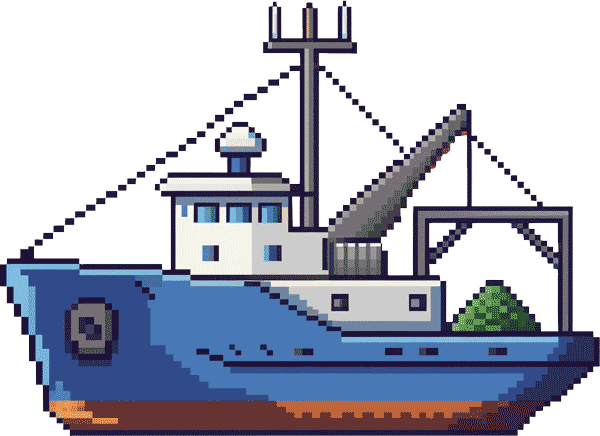
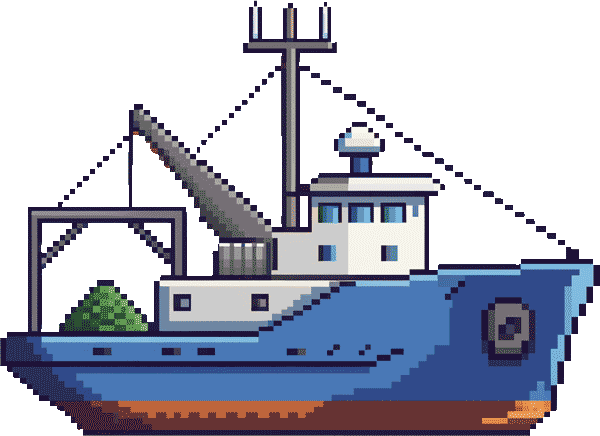
Tråleren ligger dypere jo mer hun har i sekken, og sjøen er blitt hennes egen
Egne bakgrunner (rekefiske-dag/skumring/natt) erstatter Uthavet. De er laget så
venstre og høyre kant er identiske — målt kantskilnad under 1 av 765 — så flisene
kan legges rett etter hverandre uten speiling og uten skjøt. Vasslinja ligger på
41,4 % i alle tre, og bildet skaleres til å fylle høyden, så vasslinja i bildet
lander på scenens vasslinje av seg selv.

To av filene het reketraaler-natt/skumring på disken. De er døpt om til
rekefiske-* så settet henger sammen.

Båten er traaler-reke.png, som eieren tegnet om: baug mot høyre, rødt bunnstoff
nederst og gantry i akterenden. Hun tegnes i to omganger — over vasslinja for
seg, under for seg med dempet alfa — og RADEN som ligger i vasslinja senkes etter
hvor full sekken er: tom flyter hun høyt og viser bunnstoffet, full søkk hun til
rødfargen er borte. Det er den eldste fangstmeldinga som finnes; du leser den på
båten lenge før du ser på baren.

Månen står igjen i regn, men på en fjerdedel av vanlig styrke — så vidt anelig
bak skydekket, slik eieren ba om.

traaler-reke-hal.png ble aldri laget og er ute av VENTA-lista igjen.

diff --git a/fiske.html b/fiske.html
@@ -422,8 +422,13 @@
   /* MERK: ingen position her — .screen gir alt position:absolute;inset:0, og ein
      «position:relative» hadde teke bort inset-a og gjort skjermen null høg. */
   #halCv{position:absolute;inset:0;width:100%;height:100%;display:block}
-  #halTopp{position:absolute;left:0;right:0;top:calc(env(safe-area-inset-top,0px) + 14px);
-    display:flex;flex-direction:column;align-items:center;gap:7px;pointer-events:none;padding:0 10px}
+  #halTopp{position:absolute;left:0;right:0;top:0;padding:calc(env(safe-area-inset-top,0px) + 14px) 10px 16px;
+    display:flex;flex-direction:column;align-items:center;gap:7px;pointer-events:none}
+  /* Kvit tekst mot dagshimmelen forsvinn. Eit mjukt mørkt slør bak toppen gir feste
+     i alle tre døgnvariantane utan å teikne ein synleg boks. */
+  #halTopp::before{content:"";position:absolute;inset:0;pointer-events:none;
+    background:linear-gradient(180deg,rgba(6,18,28,.52),rgba(6,18,28,.28) 62%,rgba(6,18,28,0))}
+  #halTopp > *{position:relative}
   #halRad{display:flex;align-items:center;gap:9px;max-width:100%}
   .halEnde{font-family:var(--mono);font-size:12.5px;color:#eaf3ee;white-space:nowrap;
     text-shadow:0 1px 3px rgba(0,0,0,.85)}
@@ -3599,8 +3604,11 @@ function tegnStjerner(dt,wlY){
       cx.save();
       var gl=cx.createRadialGradient(mx,my,msz*0.34,mx,my,msz*1.15);
       gl.addColorStop(0,"rgba(255,236,180,.20)"); gl.addColorStop(1,"rgba(255,236,180,0)");
-      cx.fillStyle=gl; cx.beginPath(); cx.arc(mx,my,msz*1.15,0,7); cx.fill();
-      cx.globalAlpha=0.5; cx.drawImage(mim, mx-msz/2, my-msz/2, msz, msz);
+      // I regn og snø ligg det skydekke mellom. Månen får stå — han ber døgnrytmen
+      // i bildet — men berre som eit anelse bak skyene: ein fjerdedel av vanleg styrke.
+      var bak=(regnerNaa()||snorNaa())?0.25:1;
+      cx.globalAlpha=bak; cx.fillStyle=gl; cx.beginPath(); cx.arc(mx,my,msz*1.15,0,7); cx.fill();
+      cx.globalAlpha=0.5*bak; cx.drawImage(mim, mx-msz/2, my-msz/2, msz, msz);
       cx.restore(); }
   }
   // Regn og snø betyr skydekke, og over skyene ser ein ikkje stjerner. Månen får stå:
@@ -5706,7 +5714,18 @@ var t0=performance.now(), bob=0;
    Ligg alle tidleg, skyt baren opp og stoppar på tjue prosent. Same maskineri,
    heilt ulik oppleving — utan at vi treng å skrive kvar variant for hand.
    ---------------------------------------------------------------------- */
-var halBaatImg=new Image(); halBaatImg.onerror=function(){}; halBaatImg.src="spill/assets/traaler-reke-hal.png";
+var halBaatImg=new Image(); halBaatImg.onerror=function(){}; halBaatImg.src="spill/assets/traaler-reke.png";
+// Tre bakgrunnar, ein per døgnfase. Alle 2000x1920, og — dette er poenget — laga så
+// venstre og høgre kant er identiske. Målt kantskilnad: under 1 av 765. Difor kan dei
+// flisleggjast rett fram, utan spegling og utan skjøt.
+var halBg={}; ["dag","skumring","natt"].forEach(function(v){
+  var im=new Image(); im.onerror=function(){}; im.src="spill/assets/rekefiske-"+v+".jpg"; halBg[v]=im; });
+function halBgNaa(){ var v=(typeof dyptVariant==="function"&&dyptVariant())||"dag"; return halBg[v]||halBg.dag; }
+var HAL_VL=0.414;   // vasslinja i bakgrunnsbileta, målt: 796 av 1920 px
+// Kor stor del av sprita som ligg OVER vatn. Ein tom båt ligg høgt og viser
+// bunnstoffet; ein full båt søkk til raudfargen er borte. Det er det du les
+// fangsten av lenge før du rekk å sjå på baren.
+var HAL_FLYT_TOM=0.955, HAL_FLYT_FULL=0.870;
 var halCv=$("#halCv"), halCx=(halCv&&halCv.getContext)?halCv.getContext("2d"):null;
 var halW=0, halH=0, halBolgeCv=document.createElement("canvas"), halBolgeCx=halBolgeCv.getContext("2d");
 var HAL=null;
@@ -5802,29 +5821,16 @@ function tegnHal(dt){
   var r=$("#stage").getBoundingClientRect(), dpr=Math.min(2,window.devicePixelRatio||1);
   if(halW!==r.width||halH!==r.height){ halW=r.width; halH=r.height;
     halCv.width=halW*dpr; halCv.height=halH*dpr; halCx.setTransform(dpr,0,0,dpr,0,0); halMaal(); }
-  var W2=halW, H2=halH, mn=Math.min(W2,H2), wl=H2*0.34, g=halCx; // vasslinja på 34 %, same som ute på havet
+  var W2=halW, H2=halH, mn=Math.min(W2,H2), wl=H2*HAL_VL, g=halCx; // vasslinja der bakgrunnen har si
   g.clearRect(0,0,W2,H2);
-  // --- SJØEN: Uthavet, same bilete som den djupaste sona.
-  //     Bildet er 1600 breitt og 10090 høgt — altså smalt. Skalerer vi det så
-  //     vasslinja i bildet treffer vasslinja vår, blir flisa berre ~490 px brei, og
-  //     ei vanleg gjentaking ville synt ein hard skjøt kvart fjerde sekund.
-  //     Difor SPEGLAR vi annakvar flis: då er høgre kant av den eine alltid identisk
-  //     med venstre kant av den neste, og skjøten finst ikkje. På ope hav utan
-  //     landemerke ser ingen at bildet vender; ein ser berre at sjøen renn forbi.
-  var uh=(typeof waterImg!=="undefined")&&waterImg[3];
-  if(uh&&uh.complete&&uh.naturalWidth){
-    var sc=wl/((WLF[3]||0.089)*uh.naturalHeight);        // vasslinje mot vasslinje
-    var tw=uh.naturalWidth*sc;
-    var srcH=Math.min(uh.naturalHeight, H2/sc);          // berre den biten som havnar på skjermen
-    var per=tw*2, start=-(HAL.rull%per);
-    var hy=Math.ceil(srcH*sc);
-    for(var k=0; start+k*tw < W2; k++){
-      var x=Math.round(start+k*tw), br=Math.ceil(tw)+1;   // +1 px lapp: brøkbreidder gav elles ei hårfin glipe
-      if(x+br<0)continue;
-      if(k%2){ g.save(); g.translate(x+br,0); g.scale(-1,1);
-        g.drawImage(uh, 0,0, uh.naturalWidth, srcH, 0,0, br, hy); g.restore(); }
-      else g.drawImage(uh, 0,0, uh.naturalWidth, srcH, x,0, br, hy);
-    }
+  // --- SJØEN: eigne rekefiske-bakgrunnar, ein per døgnfase.
+  //     Kantane er identiske (målt kantskilnad under 1 av 765), så flisene kan
+  //     leggjast rett etter kvarandre. Biletet blir skalert så det fyller høgda;
+  //     då landar vasslinja i biletet nøyaktig på vasslinja vår, av seg sjølv.
+  var bg=halBgNaa();
+  if(bg&&bg.complete&&bg.naturalWidth){
+    var sc=H2/bg.naturalHeight, tw=bg.naturalWidth*sc, br=Math.ceil(tw)+1; // +1 px lapp mot brøkglipe
+    for(var x=-(HAL.rull%tw); x<W2; x+=tw) g.drawImage(bg, Math.round(x), 0, br, H2);
   } else {
     var sky=g.createLinearGradient(0,0,0,wl);
     sky.addColorStop(0,"#1d3b57"); sky.addColorStop(1,"#4d7893");
@@ -5853,55 +5859,66 @@ function tegnHal(dt){
       g.drawImage(halBolgeCv, wx*dpr, 0, wk*dpr, bh, wx, wl-wb+wo, wk, wb*2);
     }
   }
+  // --- BÅTEN. Sprita har baugen mot HØGRE og eit raudt bunnstoff nedst. Vi plasserer
+  //     henne slik at ei valt rad i sprita ligg på vasslinja, og SENKER den rada etter
+  //     kvart som sekken fyllest: tom flyt ho høgt og viser raudfargen, full søkk ho til
+  //     raudfargen er borte. Det er den eldste fangstmeldinga som finst — du les henne
+  //     på båten lenge før du ser på baren.
+  var bi=halBaatImg, dupp=Math.sin(HAL.bob*1.15)*3.0+Math.sin(HAL.bob*0.63+1.7)*1.4;
+  var last=Math.max(0,Math.min(1, HAL.verdi/HAL.kap));
+  var flyt=HAL_FLYT_TOM+(HAL_FLYT_FULL-HAL_FLYT_TOM)*last;
+  var bw2=mn*0.78, bh2=bi.naturalHeight?bw2*bi.naturalHeight/bi.naturalWidth:bw2*0.73;
+  var bx0=W2*0.52, by0=wl-flyt*bh2+dupp, krenge=Math.sin(HAL.bob*0.5)*0.012;
+  // Gantryet står i akterenden av sprita — der wirane skal ut.
+  var akter=bx0-bw2*0.405, gantry=by0+bh2*0.47;
+
   // --- TRÅLEN. Du ser aldri ei reke. Du ser wirane gå akterut og ned, og du anar
   //     nota eit stykke under overflata før ho blir borte i det blå. Reka står på
   //     200-400 meter; skulle vi teikna henne, ville vi lyge om kor djupt det er.
-  //     Alt du VEIT om fangsten, veit du frå baren. Det er heile poenget.
-  var akter=W2*0.50-mn*0.30, dupp=Math.sin(HAL.bob*1.15)*3.0+Math.sin(HAL.bob*0.63+1.7)*1.4;
+  //     Alt du VEIT om fangsten, veit du frå baren.
   (function(){
-    var ned=(H2-wl)*0.42, borte=wl+ned;             // så langt ned nota er å sjå
+    var ned=(H2-wl)*0.55, borte=wl+ned;
+    var gr=g.createLinearGradient(0,wl,0,borte);      // nota bleiknar nedover mot djupet
     g.save(); g.lineCap="round";
-    for(var w=0;w<2;w++){                            // to wirar, litt ulik lengd
-      var x1=akter-mn*0.02*w, y1=wl-mn*0.055+dupp;
-      var x2=akter-mn*(0.20+0.03*w), y2=wl+mn*0.012;
-      g.strokeStyle="rgba(225,235,240,"+(0.55-0.12*w)+")"; g.lineWidth=1.6;
-      g.beginPath(); g.moveTo(x1,y1); g.quadraticCurveTo((x1+x2)/2, y1+mn*0.03, x2, y2); g.stroke();
-    }
-    var gr=g.createLinearGradient(0,wl,0,borte);     // nota bleiknar nedover
-    gr.addColorStop(0,"rgba(120,175,150,.40)"); gr.addColorStop(1,"rgba(120,175,150,0)");
+    gr.addColorStop(0,"rgba(140,190,165,.34)"); gr.addColorStop(1,"rgba(140,190,165,0)");
     g.strokeStyle=gr; g.lineWidth=1.3;
-    var mx=akter-mn*0.215, bx=akter-mn*0.46;         // munnen oppe, posen nede bakover
-    for(var s=0;s<=6;s++){                            // langsgåande masketrådar
-      var f=s/6, x0=mx-mn*0.02*s*0.5, sp=mn*(0.055-0.028*f);
-      g.beginPath(); g.moveTo(x0, wl+sp*0.3);
-      g.quadraticCurveTo((x0+bx)/2, wl+ned*0.55+sp, bx, borte-mn*0.01); g.stroke();
+    var mx=akter-mn*0.075, px=akter-mn*0.30;          // munnen oppe, posen nede bakover
+    for(var s=0;s<=6;s++){                             // langsgåande masketrådar
+      var f=s/6, x0=mx-mn*0.012*s, sp=mn*(0.050-0.026*f);
+      g.beginPath(); g.moveTo(x0, wl+sp*0.4);
+      g.quadraticCurveTo((x0+px)/2, wl+ned*0.55+sp, px, borte-mn*0.01); g.stroke();
     }
-    for(var t2=1;t2<=4;t2++){                         // tverrbanda, så det les som eit nett
-      var ff=t2/5, yy=wl+ned*ff, xa=mx-(mx-bx)*ff*0.92;
-      g.beginPath(); g.moveTo(xa, yy-mn*(0.05-0.03*ff)); g.lineTo(xa, yy+mn*(0.05-0.03*ff)); g.stroke();
+    for(var q=1;q<=4;q++){                             // tverrband, så det les som eit nett
+      var ff=q/5, yy=wl+ned*ff, xa=mx-(mx-px)*ff*0.92, hh=mn*(0.048-0.028*ff);
+      g.beginPath(); g.moveTo(xa, yy-hh); g.lineTo(xa, yy+hh); g.stroke();
     }
     g.restore();
   })();
-  var bi=halBaatImg;
+
   if(bi.complete&&bi.naturalWidth){
-    var bw2=mn*0.78, bh2=bw2*bi.naturalHeight/bi.naturalWidth;
-    g.save(); g.translate(W2*0.50, wl-bh2*0.30+dupp);
-    g.rotate(Math.sin(HAL.bob*0.5)*0.012);
-    g.drawImage(bi,-bw2/2,-bh2/2,bw2,bh2); g.restore();
+    var tegn=function(){ g.save(); g.translate(bx0, by0+bh2/2); g.rotate(krenge);
+      g.drawImage(bi,-bw2/2,-bh2/2,bw2,bh2); g.restore(); };
+    g.save(); g.beginPath(); g.rect(0,0,W2,wl); g.clip(); tegn(); g.restore();        // over vatn
+    g.save(); g.beginPath(); g.rect(0,wl,W2,H2-wl); g.clip();
+      g.globalAlpha=0.42; tegn(); g.restore();                                        // under vatn: sjøen legg seg over
   } else {
     g.fillStyle="rgba(235,240,238,.16)"; g.font=Math.round(mn*0.032)+"px monospace";
-    g.textAlign="center"; g.fillText("traaler-reke-hal.png manglar", W2*0.5, wl-mn*0.06); g.textAlign="left";
+    g.textAlign="center"; g.fillText("traaler-reke.png manglar", W2*0.5, wl-mn*0.06); g.textAlign="left";
   }
+  // Wirane sist, så dei ligg oppå skroget der dei går ut over rekka.
+  (function(){
+    g.save(); g.lineCap="round";
+    for(var w=0;w<2;w++){
+      var x1=akter+mn*0.008*w, y1=gantry;
+      var x2=akter-mn*(0.085+0.022*w), y2=wl+mn*0.008;
+      g.strokeStyle="rgba(226,236,242,"+(0.40-0.11*w)+")"; g.lineWidth=1.1; // tynne og dempa: wire, ikkje tau
+      g.beginPath(); g.moveTo(x1,y1); g.quadraticCurveTo((x1+x2)/2, y1+(y2-y1)*0.72, x2, y2); g.stroke();
+    }
+    g.restore();
+  })();
 }
 
 function halOpne(){ show("hal"); halStart();
-  // Uthavet-bildet blir elles fyrst henta når du står i den djupaste sona. Her er
-  // det bakgrunnen, så vi ber om det med ein gong — same veg som spelet elles gjer.
-  if(!waterImg[3].complete||!waterImg[3].naturalWidth){
-    if(typeof updateDyptImg==="function")updateDyptImg();
-    if(!waterImg[3].getAttribute("src"))
-      waterImg[3].src="spill/assets/uthavet-"+((typeof dyptVariant==="function"&&dyptVariant())||"dag")+".jpg";
-  }
   var b=$("#halHiv"); b.textContent="Hiv trålen"; b.disabled=false;
   $("#halFyll").style.width="0%"; $("#halNaa").textContent="0 kr"; $("#halBar").classList.remove("full");
   halMaal(); }

diff --git a/prompter/ui-og-effekter.md b/prompter/ui-og-effekter.md
@@ -426,6 +426,12 @@ fiskerkortet (koden har 📱-fallback, ikonet plugger seg selv inn). (653 tegn)
 
 > Retro video game pixel art style. A single game icon: a hydraulic power block for hauling nets — a heavy yellow-painted steel pulley wheel with a deep V groove, mounted in a sturdy bracket, thick wire cable running over it, hydraulic hoses coiled at the base and grease around the hub. Chunky and readable at small size: few large details, thick clean pixel outlines, slight warm shading. Centred, filling most of the frame. The entire background is flat solid magenta, one single colour, completely empty; nothing touches the image edge. Strict pixel grid, hard-edged pixels, no anti-aliasing, no text, no drop shadow.
 
+**Oppdatering 7. aug:** `traaler-reke-hal.png` blei aldri laga. Eigaren teikna i staden om
+`traaler-reke.png` slik at ho duger både i ro og i arbeid — baug mot høgre, raudt bunnstoff
+nedst, og eit gantry i akterenden der wirane går ut. Halet teiknar sjølv wirane, nota som
+forsvinn ned i djupet, og kor djupt ho ligg i sjøen etter kor full sekken er. Ingen reker
+er synlege nokon stad. Prompten under er difor historikk, ikkje ei bestilling.
+
 `spill/assets/traaler-reke-hal.png` — Reketrålaren PÅ HAL, sett frå sida (1006 tegn):
 
 Den som alt ligger der (`traaler-reke.png`) er båten i ro — dette er same båt i arbeid.
